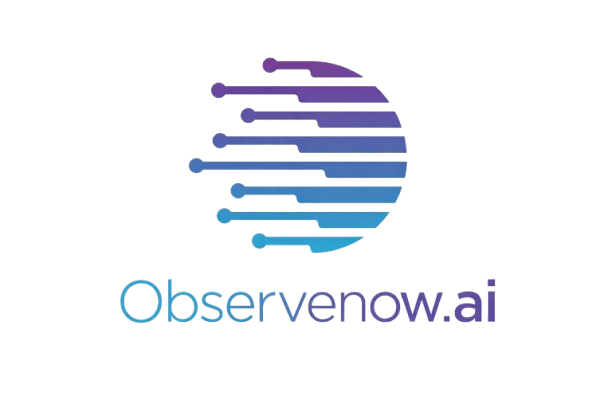
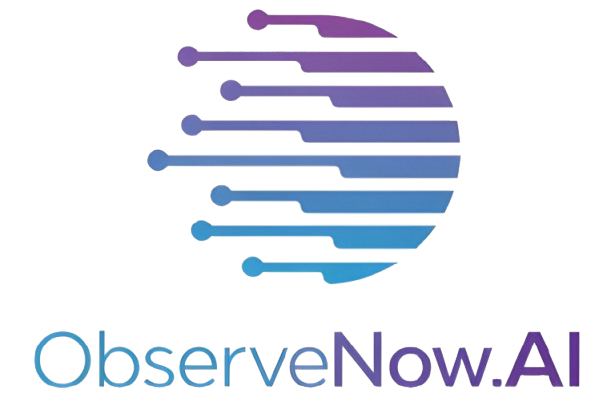
initial commit

Changed region(s): [[0.031, 0.0, 0.9624, 0.9754]]

diff --git a/src/components/Header.tsx b/src/components/Header.tsx
@@ -24,7 +24,7 @@ const Header = () => {
             <img
               src={logo}
               alt="ObserveNow AI"
-              className="h-full max-h-[100px] w-auto object-contain"
+              className="h-16 w-auto object-contain"
             />
           </NavLink>
 

diff --git a/src/components/Footer.tsx b/src/components/Footer.tsx
@@ -1,5 +1,5 @@
 import { motion } from "framer-motion";
-import logo from "@/assets/observenow_ai_cropped.png";
+import logo from "@/assets/observenow_ai.png";
 import { Linkedin, X, Instagram, Facebook} from "lucide-react";
 
 import { Link } from "react-router-dom";
